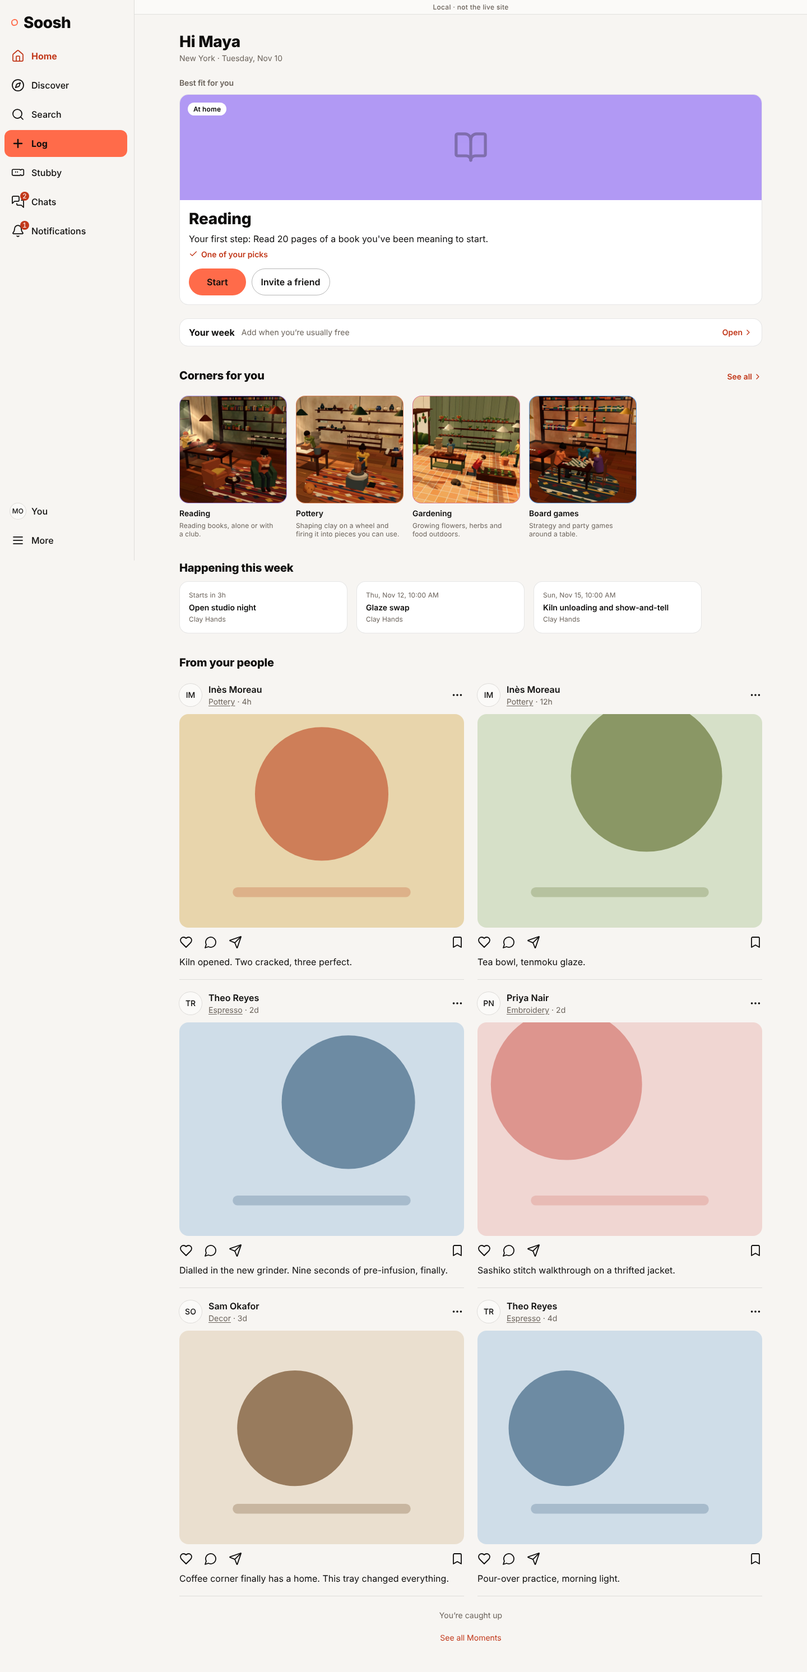
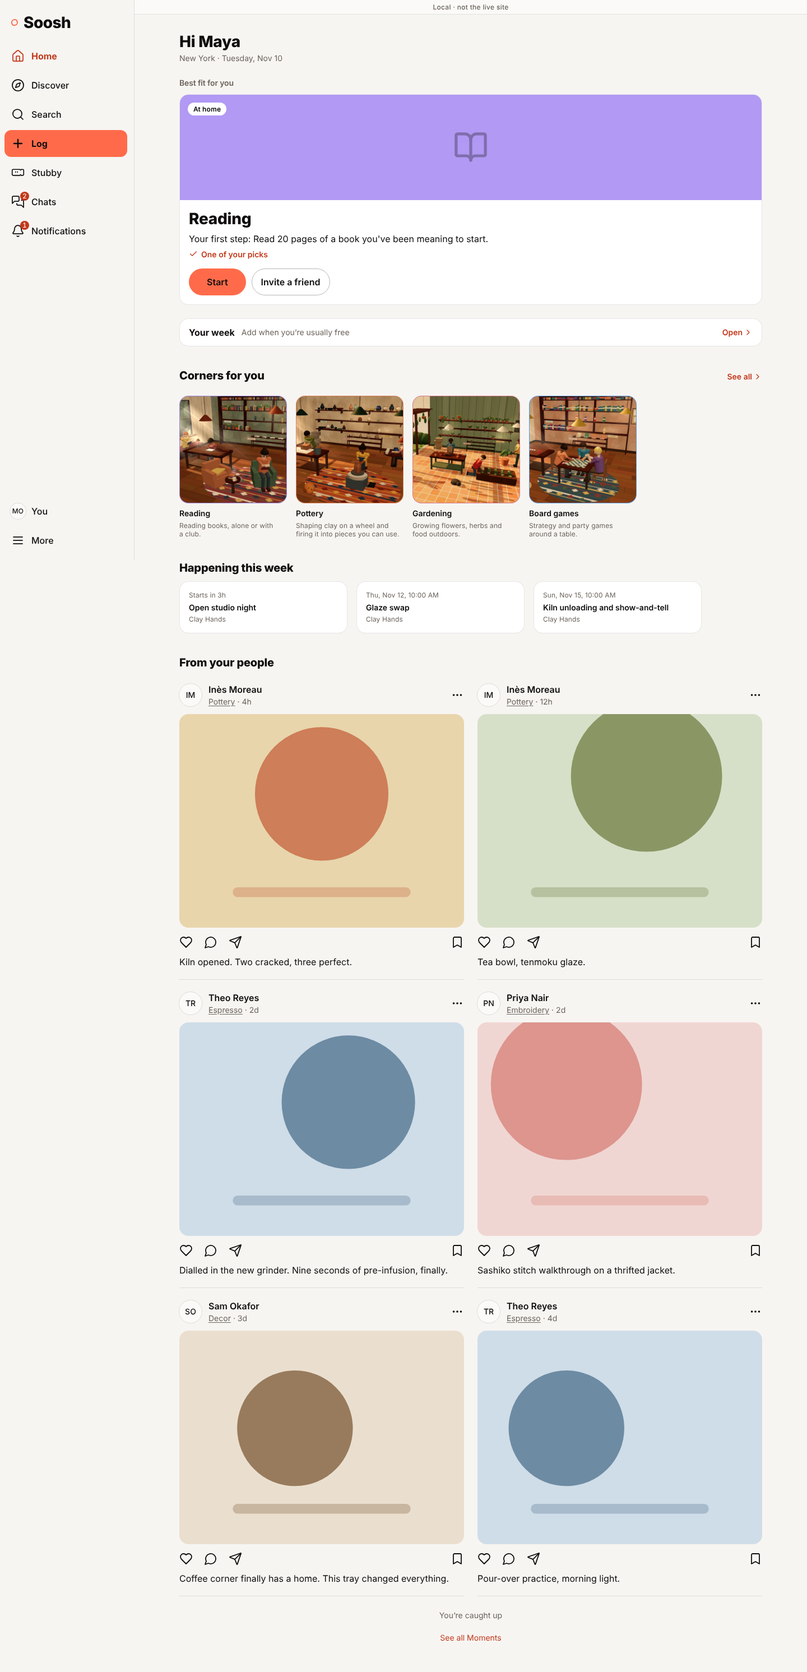
Corner stills: Reading and Board games brightened, and a 16:9 still for the Corner list
Reading and Board games are lamp-lit and sat dark on the light page, so
their stills are lifted (CARD_LIFT in room-preview.ts). Pottery and
Gardening, already approved, are unchanged.

Each Corner with a 3D world also gets card-wide.webp (16:9, 960 by 540),
cut so the characters stay in frame. cornerPicture takes a shape, and
the Corner list's cards ask for the wide one.

The two row headings are approved, so the glossary says so.

Claude-Session: https://claude.ai/code/session_014X1CC5TjX3vr43DbzhCeut

Changed region(s): [[0.2188, 0.2182, 0.375, 0.3118], [0.6562, 0.2182, 0.8125, 0.3118]]

diff --git a/scripts/e2e/room-preview.ts b/scripts/e2e/room-preview.ts
@@ -3,7 +3,8 @@
 // to it, and to check an engine change did not change a room.
 //
 // Usage: node scripts/e2e/room-preview.ts [--out DIR] [--settings garden,nook,cafe] [--moods golden,night] [--views desktop,phone] [--frames 120]
-//        node scripts/e2e/room-preview.ts --cards   (writes public/worlds/{slug}/card.webp for every Corner in CORNER_WORLDS)
+//        node scripts/e2e/room-preview.ts --cards   (writes public/worlds/{slug}/card.webp and card-wide.webp for every Corner in CORNER_WORLDS;
+//                                                    --cards-out DIR writes them elsewhere, --lift N overrides how much each is brightened)
 // It builds scripts/e2e/room-preview (a test harness, never part of the app) and opens it in a headless
 // browser. No database, no network. Waits are counted in frames so two runs catch the same moment.
 import assert from "node:assert/strict";
@@ -26,12 +27,23 @@ const views = (arg("--views") ?? "desktop,phone").split(",");
 const frames = Number(arg("--frames") ?? 120);
 fs.mkdirSync(out, { recursive: true });
 
-// The still picture of a Corner (cornerPicture in src/app/lib/cornerPicture.ts): one square, 800 by 800, under 80 kB,
-// in golden hour, from the start pose on a wide screen. The frame is wider than it is tall, so the square is cut
-// from it where the setting is busiest (the characters and the shelves): 0 is the left edge of the frame, 1 the right.
+// The still pictures of a Corner (cornerPicture in src/app/lib/cornerPicture.ts), in golden hour, from the start pose
+// on a wide screen. Two shapes, each under 80 kB:
+//   card.webp       a square, 800 by 800, for square pictures (Home, Discover)
+//   card-wide.webp  16:9, 960 by 540, for the Corner list's cards
+// The frame is 1440 by 900, so each shape is cut from it where the setting is busiest (the characters and the
+// shelves). `x` and `y` say where the cut sits in the room it has to move: 0 is the left or top edge, 1 the right or bottom.
+// The wide cut is taken a little smaller than the frame so the characters are larger on a small card, and low in
+// the frame so they sit high on the card: the card's name is written over the bottom of the picture.
 const cards = args.includes("--cards");
-const CARD = { frame: { width: 1440, height: 900 }, side: 800, maxBytes: 80_000 };
-const CARD_CROP: Record<SettingName, number> = { studio: 0.62, garden: 1, nook: 0.3, cafe: 0.74 };
+const CARD = { frame: { width: 1440, height: 900 }, maxBytes: 80_000 };
+const CARD_SHAPES = [
+  { file: "card.webp", cut: { width: 900, height: 900 }, size: { width: 800, height: 800 }, x: { studio: 0.62, garden: 1, nook: 0.3, cafe: 0.74 }, y: { studio: 0, garden: 0, nook: 0, cafe: 0 } },
+  { file: "card-wide.webp", cut: { width: 1200, height: 675 }, size: { width: 960, height: 540 }, x: { studio: 0.75, garden: 1, nook: 0.25, cafe: 1 }, y: { studio: 0.8, garden: 0.7, nook: 1, cafe: 1 } },
+] as const satisfies readonly { file: string; cut: { width: number; height: number }; size: { width: number; height: number }; x: Record<SettingName, number>; y: Record<SettingName, number> }[];
+// The two lamp-lit settings are dark beside a light page, so their stills are lifted: each channel is raised to the
+// power 1/lift, which opens the shadows and leaves white as white. 1 leaves a still as the engine drew it.
+const CARD_LIFT: Record<SettingName, number> = { studio: 1, garden: 1, nook: 1.45, cafe: 1.45 };
 
 const dist = fs.mkdtempSync(path.join(os.tmpdir(), "soosh-room-preview-build-"));
 await build({ configFile: false, root: path.join(root, "scripts/e2e/room-preview"), base: "./", logLevel: "warn", build: { outDir: dist, emptyOutDir: true } });
@@ -46,7 +58,7 @@ const server = http.createServer((req, res) => {
 await new Promise<void>((resolve) => server.listen(0, "127.0.0.1", resolve));
 const origin = `http://127.0.0.1:${(server.address() as { port: number }).port}`;
 const executablePath = process.env.PLAYWRIGHT_CHROMIUM || (fs.existsSync("/usr/bin/chromium") ? "/usr/bin/chromium" : undefined);
-const report = { scope: "The engine alone on a test harness page. No app, database or network.", shots: [] as { file: string; firstFrameMs: number }[], cards: [] as { file: string; bytes: number; pose: unknown }[], errors: [] as string[] };
+const report = { scope: "The engine alone on a test harness page. No app, database or network.", shots: [] as { file: string; firstFrameMs: number }[], cards: [] as { file: string; bytes: number; lift: number; pose: unknown }[], errors: [] as string[] };
 
 const browser = await chromium.launch({ ...(executablePath ? { executablePath } : {}), args: ["--use-angle=swiftshader", "--enable-unsafe-swiftshader", "--ignore-gpu-blocklist"] });
 try {
@@ -68,19 +80,28 @@ try {
       await page.evaluate((n) => new Promise<void>((done) => { let i = 0; const tick = () => (++i >= n ? done() : requestAnimationFrame(tick)); requestAnimationFrame(tick); }), frames);
       const frame = await page.screenshot();
       await page.close();
-      const left = Math.round((CARD.frame.width - CARD.frame.height) * CARD_CROP[corner.setting]);
-      const square = sharp(frame).extract({ left, top: 0, width: CARD.frame.height, height: CARD.frame.height }).resize(CARD.side, CARD.side);
-      let bytes = Buffer.alloc(0);
-      for (let quality = 82; quality >= 40; quality -= 6) {
-        bytes = await square.clone().webp({ quality, effort: 6 }).toBuffer();
-        if (bytes.length < CARD.maxBytes) break;
+      const lift = Number(arg("--lift") ?? CARD_LIFT[corner.setting]);
+      for (const shape of CARD_SHAPES) {
+        const left = Math.round((CARD.frame.width - shape.cut.width) * shape.x[corner.setting]);
+        const top = Math.round((CARD.frame.height - shape.cut.height) * shape.y[corner.setting]);
+        const { data, info } = await sharp(frame).extract({ left, top, ...shape.cut }).resize(shape.size.width, shape.size.height).removeAlpha().raw().toBuffer({ resolveWithObject: true });
+        if (lift !== 1) {
+          const curve = Uint8Array.from({ length: 256 }, (_, v) => Math.round(255 * (v / 255) ** (1 / lift)));
+          for (let i = 0; i < data.length; i++) data[i] = curve[data[i]];
+        }
+        const picture = sharp(data, { raw: info });
+        let bytes = Buffer.alloc(0);
+        for (let quality = 82; quality >= 40; quality -= 6) {
+          bytes = await picture.clone().webp({ quality, effort: 6 }).toBuffer();
+          if (bytes.length < CARD.maxBytes) break;
+        }
+        assert.ok(bytes.length < CARD.maxBytes, `${corner.slug}: ${shape.file} must be under ${CARD.maxBytes} bytes`);
+        const file = path.join(arg("--cards-out") ? path.resolve(arg("--cards-out")!) : path.join(root, "public/worlds"), corner.slug, shape.file);
+        fs.mkdirSync(path.dirname(file), { recursive: true });
+        fs.writeFileSync(file, bytes);
+        report.cards.push({ file: path.relative(root, file), bytes: bytes.length, lift, pose: corner.pose });
+        console.log("CARD", path.relative(root, file), bytes.length);
       }
-      assert.ok(bytes.length < CARD.maxBytes, `${corner.slug}: the still must be under ${CARD.maxBytes} bytes`);
-      const file = path.join(root, "public/worlds", corner.slug, "card.webp");
-      fs.mkdirSync(path.dirname(file), { recursive: true });
-      fs.writeFileSync(file, bytes);
-      report.cards.push({ file: path.relative(root, file), bytes: bytes.length, pose: corner.pose });
-      console.log("CARD", path.relative(root, file), bytes.length);
     }
     await context.close();
   }

diff --git a/src/app/lib/cornerPicture.test.ts b/src/app/lib/cornerPicture.test.ts
@@ -13,16 +13,19 @@ describe("cornerPicture", () => {
     expect([...CORNER_STILL_KEYS].sort()).toEqual(CORNER_WORLDS.map((w) => w.key).sort());
   });
 
-  it("points at a file that is there: a WebP under 80 kB, 800 by 800", () => {
+  it("points at files that are there: WebP under 80 kB, a square of 800 and a 16:9 of 960 by 540", () => {
     for (const w of CORNER_WORLDS) {
       const [spaceSlug, slug] = w.key.split("/");
-      const src = cornerPicture(spaceSlug, slug)!;
-      expect(src).toBe(`/worlds/${w.slug}/card.webp`);
-      const bytes = fs.readFileSync(path.join(root, "public", src));
-      expect(bytes.length, src).toBeLessThan(80_000);
-      // A lossy WebP: "RIFF", the size, "WEBPVP8 ", then the frame header with both sides (14 bits each).
-      expect(bytes.toString("latin1", 0, 4) + bytes.toString("latin1", 8, 16), src).toBe("RIFFWEBPVP8 ");
-      expect([bytes.readUInt16LE(26) & 0x3fff, bytes.readUInt16LE(28) & 0x3fff], src).toEqual([800, 800]);
+      expect(cornerPicture(spaceSlug, slug)).toBe(`/worlds/${w.slug}/card.webp`);
+      for (const [shape, file, size] of [["square", "card.webp", [800, 800]], ["wide", "card-wide.webp", [960, 540]]] as const) {
+        const src = cornerPicture(spaceSlug, slug, 600, shape)!;
+        expect(src).toBe(`/worlds/${w.slug}/${file}`);
+        const bytes = fs.readFileSync(path.join(root, "public", src));
+        expect(bytes.length, src).toBeLessThan(80_000);
+        // A lossy WebP: "RIFF", the size, "WEBPVP8 ", then the frame header with both sides (14 bits each).
+        expect(bytes.toString("latin1", 0, 4) + bytes.toString("latin1", 8, 16), src).toBe("RIFFWEBPVP8 ");
+        expect([bytes.readUInt16LE(26) & 0x3fff, bytes.readUInt16LE(28) & 0x3fff], src).toEqual(size);
+      }
       expect(cornerPictureAlt(spaceSlug, slug, w.name)).toBe(w.name);
     }
   });
@@ -30,7 +33,8 @@ describe("cornerPicture", () => {
   it("gives a Corner without a 3D world exactly the photo and alt text it has today", () => {
     for (const [spaceSlug, slug] of [["crafts-making", "knitting"], ["food-drink", "baking"], ["no-such-space", "no-such-corner"]]) {
       expect(cornerHasStill(spaceSlug, slug)).toBe(false);
-      for (const width of [160, 600, 1600]) expect(cornerPicture(spaceSlug, slug, width)).toBe(cornerPhoto(spaceSlug, slug, width));
+      for (const width of [160, 600, 1600])
+        for (const shape of ["square", "wide"] as const) expect(cornerPicture(spaceSlug, slug, width, shape)).toBe(cornerPhoto(spaceSlug, slug, width));
       expect(cornerPictureAlt(spaceSlug, slug, "A name")).toBe(cornerPhotoAlt(slug));
     }
   });
@@ -41,7 +45,7 @@ describe("cornerPicture", () => {
       for (const e of fs.readdirSync(path.join(root, dir), { withFileTypes: true })) {
         const rel = `${dir}/${e.name}`;
         if (e.isDirectory()) walk(rel);
-        else if (/\.tsx?$/.test(e.name) && !/\.test\.tsx?$/.test(e.name) && read(rel).includes("card.webp")) hits.push(rel);
+        else if (/\.tsx?$/.test(e.name) && !/\.test\.tsx?$/.test(e.name) && /card(-wide)?\.webp/.test(read(rel))) hits.push(rel);
       }
     };
     walk("src");

diff --git a/scripts/e2e/corners-on-home.ts b/scripts/e2e/corners-on-home.ts
@@ -152,17 +152,31 @@ try {
 
       // ---------- The full Corner list ----------
       await page.goto(origin + "/#/corners", { waitUntil: "networkidle" });
+      // A row heading of the Corner list itself: Discover, which is still on screen for a moment, links to Corners too.
+      await page.locator('main h2[id^="row-"]').first().waitFor();
       await page.locator('main a[href="#/corners/pottery"]').first().waitFor();
       if (hasRow) {
         // Every card for a Corner with a 3D world shows its still, and no other card does.
-        const cards = await page.locator("main li a img").evaluateAll((imgs) => imgs.map((i) => ({ href: i.closest("a")!.getAttribute("href")!, still: !!i.getAttribute("src")?.includes("/worlds/") })));
+        const cards = await page.locator("main li a img").evaluateAll((imgs) => imgs.map((i) => ({ href: i.closest("a")!.getAttribute("href")!, still: !!i.getAttribute("src")?.includes("/worlds/"), wide: !!i.getAttribute("src")?.endsWith("/card-wide.webp"), src: i.getAttribute("src") })));
         const worlds = ["#/corners/board-games", "#/corners/gardening", "#/corners/pottery", "#/corners/reading"];
         for (const c of cards) assert.equal(c.still, worlds.includes(c.href), c.href);
+        // These cards are 16:9, so they use the 16:9 cut of the still.
+        for (const c of cards) assert.equal(c.wide, c.still, `${c.href} ${c.src}`);
         const shown = [...new Set(cards.filter((c) => c.still).map((c) => c.href))].sort();
         assert.ok(shown.length > 0);
-        pass(`${tag}: in the Corner list, ${shown.map((h) => h.slice(10)).join(" and ")} show a still and no other of its ${cards.length} cards does`);
+        pass(`${tag}: in the Corner list, ${shown.map((h) => h.slice(10)).join(" and ")} show the 16:9 still and no other of its ${cards.length} cards does`);
       }
       await shoot("corners");
+      if (hasRow) {
+        // Each of those cards on its own, once its picture has loaded (pictures further down load when scrolled to).
+        for (const slug of ["pottery", "gardening", "reading", "board-games"]) {
+          const card = page.locator(`main li a[href="#/corners/${slug}"]`, { has: page.locator('img[src$="/card-wide.webp"]') }).first();
+          await card.scrollIntoViewIfNeeded();
+          await card.locator("img").evaluate((img: HTMLImageElement) => img.complete || new Promise((done) => img.addEventListener("load", done, { once: true })));
+          await page.waitForTimeout(300);
+          await card.screenshot({ path: path.join(out, `${tag}-card-${slug}.png`) });
+        }
+      }
 
       // No part of a 3D world was fetched on any of these pages.
       const world = requested.filter((p) => /\/assets\/(scene|CornerWorld|town)-/.test(p));

diff --git a/src/app/lib/cornerPicture.ts b/src/app/lib/cornerPicture.ts
@@ -3,7 +3,8 @@ import { cornerPhoto, cornerPhotoAlt } from "./cornerPhoto";
 
 /**
  * The picture of a Corner on a card. A Corner whose 3D world is switched on has a still of it, made by
- * `node scripts/e2e/room-preview.ts --cards` (public/worlds/{slug}/card.webp: square, 800 by 800, golden hour).
+ * `node scripts/e2e/room-preview.ts --cards` in golden hour, in two shapes: public/worlds/{slug}/card.webp
+ * (square, 800 by 800) and card-wide.webp (16:9, 960 by 540, cut so the characters stay in frame on a wide card).
  * Every other Corner keeps the photo it has always had (cornerPhoto).
  *
  * This is the one place that knows which Corners have a still. The list is written out here, not read from the
@@ -30,10 +31,17 @@ export function cornerHasStill(spaceSlug: string, slug: string): boolean {
   return stillSlug(spaceSlug, slug) !== undefined;
 }
 
-/** The still of a Corner's 3D world when it has one, else exactly the photo the Corner has today. `width` only matters for a photo. */
-export function cornerPicture(spaceSlug: string, slug: string, width = 600): string | undefined {
+/** The shape of the box the picture goes in: a square, or a 16:9 card. */
+export type CornerPictureShape = "square" | "wide";
+const STILL_FILE: Record<CornerPictureShape, string> = { square: "card.webp", wide: "card-wide.webp" };
+
+/**
+ * The still of a Corner's 3D world when it has one, else exactly the photo the Corner has today.
+ * `width` only matters for a photo, and `shape` only for a still.
+ */
+export function cornerPicture(spaceSlug: string, slug: string, width = 600, shape: CornerPictureShape = "square"): string | undefined {
   const still = stillSlug(spaceSlug, slug);
-  return still ? `${import.meta.env.BASE_URL}worlds/${still}/card.webp` : cornerPhoto(spaceSlug, slug, width);
+  return still ? `${import.meta.env.BASE_URL}worlds/${still}/${STILL_FILE[shape]}` : cornerPhoto(spaceSlug, slug, width);
 }
 
 /** Alt text for cornerPicture: the Corner's name for a still, else what the photo's alt text is today. */

diff --git a/src/app/components/corners/CornerCard.tsx b/src/app/components/corners/CornerCard.tsx
@@ -36,7 +36,7 @@ export function CornerCard({
         className="group relative block aspect-video overflow-hidden rounded-card bg-[var(--cat)] text-on-media shadow-card transition-shadow duration-base hover:z-10 hover:shadow-glow focus-visible:shadow-glow"
       >
         <ImageWithFallback
-          src={still ? cornerPicture(corner.spaceSlug, corner.slug, 600) : cornerPhoto(corner.spaceSlug, corner.slug, 600)}
+          src={still ? cornerPicture(corner.spaceSlug, corner.slug, 600, "wide") : cornerPhoto(corner.spaceSlug, corner.slug, 600)}
           alt={still ? cornerPictureAlt(corner.spaceSlug, corner.slug, corner.name) : cornerPhotoAlt(corner.slug)}
           width={288}
           tint

diff --git a/src/app/components/home/CornersRow.tsx b/src/app/components/home/CornersRow.tsx
@@ -19,7 +19,7 @@ import { ImageWithFallback } from "../ImageWithFallback";
 import { Skeleton } from "../ui/skeleton";
 import { SectionHead } from "./YourCornersSections";
 
-/** The row's words (docs/glossary.md, Home v3). The two headings are new, for the founder's approval. */
+/** The row's words (docs/glossary.md, Corners on Home and Discover; approved Nov 10, 2026). */
 export const CORNERS_ROW_COPY = {
   forYou: "Corners for you",
   yours: "Your Corners",

diff --git a/docs/qa/corners-on-home/README.md b/docs/qa/corners-on-home/README.md
@@ -4,13 +4,45 @@ Made by `node scripts/e2e/corners-on-home.ts` on the production build, with the 
 (no live account or database). Remote photos are blocked in this run, so a Corner without a still shows its
 colour tile here; on the live site it shows the photo it has always had.
 
-## The stills, for approval
+## The stills
 
-`public/worlds/{slug}/card.webp`, 800 by 800, golden hour, made by `node scripts/e2e/room-preview.ts --cards`.
+`public/worlds/{slug}/card.webp` (square, 800 by 800) and `card-wide.webp` (16:9, 960 by 540), golden hour,
+made by `node scripts/e2e/room-preview.ts --cards`.
 
-| Pottery (61.6 kB) | Gardening (75.4 kB) | Reading (51.5 kB) | Board games (62.4 kB) |
-|---|---|---|---|
-| ![Pottery](../../../public/worlds/pottery/card.webp) | ![Gardening](../../../public/worlds/gardening/card.webp) | ![Reading](../../../public/worlds/reading/card.webp) | ![Board games](../../../public/worlds/board-games/card.webp) |
+Pottery and Gardening were approved on Nov 10, 2026 and are unchanged.
+
+| Pottery (61.6 kB) | Gardening (75.4 kB) |
+|---|---|
+| ![Pottery](../../../public/worlds/pottery/card.webp) | ![Gardening](../../../public/worlds/gardening/card.webp) |
+
+### Reading and Board games, brightened (for approval)
+
+The same frame and the same cut as before. The shadows are opened (`CARD_LIFT` in the script) and white stays white.
+
+| | Before | After |
+|---|---|---|
+| Reading (54.0 kB) | ![](reading-before.webp) | ![Reading](../../../public/worlds/reading/card.webp) |
+| Board games (64.1 kB) | ![](board-games-before.webp) | ![Board games](../../../public/worlds/board-games/card.webp) |
+
+On the page's own background, at the size Home shows them on a desktop (Reading before, after; Board games before, after):
+
+![](brightened-on-page.png)
+
+### The 16:9 stills for the Corner list (for approval)
+
+Cut from the same frames so the characters stay in frame on a wide card. Reading and Board games are brightened the same way.
+
+| Pottery (53.6 kB) | Gardening (76.0 kB) |
+|---|---|
+| ![Pottery](../../../public/worlds/pottery/card-wide.webp) | ![Gardening](../../../public/worlds/gardening/card-wide.webp) |
+
+| Reading (43.4 kB) | Board games (50.5 kB) |
+|---|---|
+| ![Reading](../../../public/worlds/reading/card-wide.webp) | ![Board games](../../../public/worlds/board-games/card-wide.webp) |
+
+As the cards on `/corners`, on a desktop (top) and on a phone (bottom):
+
+![](corner-list-cards.png)
 
 ## Home
 
@@ -33,7 +65,7 @@ and for someone who follows two:
 
 - Home shows the right heading and Corners, as square, lazy pictures with the Corner name as alt text.
 - A card opens the Corner's page.
-- On Discover and on `/corners`, only Corners with a 3D world show a still, at the size the tile always was.
+- On Discover and on `/corners`, only Corners with a 3D world show a still, at the size the tile always was. The cards on `/corners` use the 16:9 still.
 - No 3D file (scene, CornerWorld or town) is fetched on Home, Discover or `/corners`.
 - Against the build before this change: every heading, link, button, list item and section that was on Home
   (67), Discover (72 on a phone, 80 on a desktop) and `/corners` (635, 652) is the same size and in the same

diff --git a/docs/corner-worlds.md b/docs/corner-worlds.md
@@ -47,7 +47,7 @@ Nothing about this is stored on a Moment. A Moment is on a Corner's finished wal
 2. **List it** in `corners/index.ts`. The Corner then opens as its room for members. Nothing else needs wiring.
 3. **Words.** Its wall labels must be the ones decided in `src/app/lib/cornerWallLabels.ts`. Every other new string, characters' lines included, goes in `docs/glossary.md` for approval.
 4. **Run `npm test`.** `cornerWorldConfigs.test.ts` runs `checkConfig` on every config: required fields, a known setting, piece kind and actions, an action only in a setting that has its prop, stations that point at real characters, a greeting said by a character, both walls named, no em or en dashes, and none of the prototype's example people, Walls, threads, chat or activities.
-5. **Its still picture.** Run `node scripts/e2e/room-preview.ts --cards`: it writes `public/worlds/<slug>/card.webp` for every Corner listed in `corners/index.ts` (square, 800 by 800, under 80 kB, golden hour, the wide-screen start pose from `firstPose`, cut to the busiest part of the setting). Then add the Corner's key to the list in `src/app/lib/cornerPicture.ts`. That still is the Corner's picture on Home, on Discover and on `/corners`; `cornerPicture.test.ts` fails until the list and the files match the Corners that have a room.
+5. **Its still picture.** Run `node scripts/e2e/room-preview.ts --cards`: it writes `public/worlds/<slug>/card.webp` (square, 800 by 800) and `card-wide.webp` (16:9, 960 by 540, for the cards on `/corners`) for every Corner listed in `corners/index.ts`: each under 80 kB, golden hour, the wide-screen start pose from `firstPose`, cut to the busiest part of the setting. A lamp-lit setting is brightened so it sits on a light page (`CARD_LIFT` in the script); look at the result beside a light page before committing it. Then add the Corner's key to the list in `src/app/lib/cornerPicture.ts`. That still is the Corner's picture on Home, on Discover and on `/corners`; `cornerPicture.test.ts` fails until the list and the files match the Corners that have a room.
 6. **Posters and loops** come with the loading work (a later PR).
 
 Never put a Corner's words or data in the engine, and never add `wall`, `edges`, `chat` or `activities` to a config: those were the prototype's example people. Walls, Passed along and chat always come from the database.

diff --git a/docs/glossary.md b/docs/glossary.md
@@ -1054,19 +1054,20 @@ More ways and the Log a Moment card are gone from Home (Discover, Corners and th
 | Soosh is better with your people / Bring a friend and start your first Pursuit together. / Invite on WhatsApp / Find contacts | Shown in place of From your people while it is empty. Reused from the old empty Home |
 | Make your version | On each Still making card; opens the same sheet as on a Corner page. Reused |
 
-## Corners on Home and Discover (brief, Nov 10, 2026; two new headings for approval)
+## Corners on Home and Discover (brief, Nov 10, 2026; headings approved by the founder, Nov 10, 2026)
 
 Home has one more row, directly under Your week: Corners as square pictures, each with the Corner's
 name and its existing one line (`cornerAbout`). A Corner whose 3D world is switched on shows a still
 picture of it (`cornerPicture`, `src/app/lib/cornerPicture.ts`); every other Corner keeps its photo.
-The same still is the Corner's picture in Corners new to you on Discover and on `/corners`. Nothing
+The same still is the Corner's picture in Corners new to you on Discover and, in a 16:9 cut, on `/corners`.
+Group pages and the related Corners strip on a Corner page keep photos (founder, Nov 10, 2026). Nothing
 else on either page changed. A person never reads a word for the 3D world itself here: these are
 Corners.
 
 | String | Where |
 |---|---|
-| Corners for you | Heading of the row for someone who follows no Corners, and for a visitor: the Corners with a 3D world, onboarding picks first, then by affinity, then the rest. **New, for approval** |
-| Your Corners | Heading of the row for someone who follows Corners: only those, the most recently active first, up to 6. Already a section heading in Add to a Corner; **new on Home, for approval** |
+| Corners for you | Heading of the row for someone who follows no Corners, and for a visitor: the Corners with a 3D world, onboarding picks first, then by affinity, then the rest. Approved Nov 10, 2026 |
+| Your Corners | Heading of the row for someone who follows Corners: only those, the most recently active first, up to 6. Also a section heading in Add to a Corner. Approved for Home Nov 10, 2026 |
 | See all | Link beside the heading, to /corners. Reused |
 
 ## Landing ribbon words (founder request, Nov 9, 2026)
